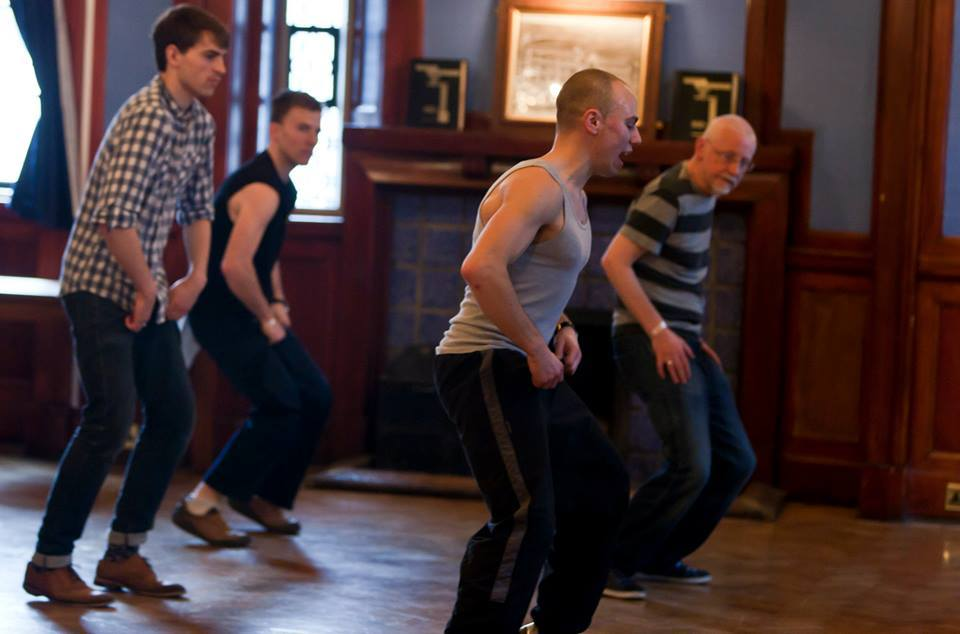
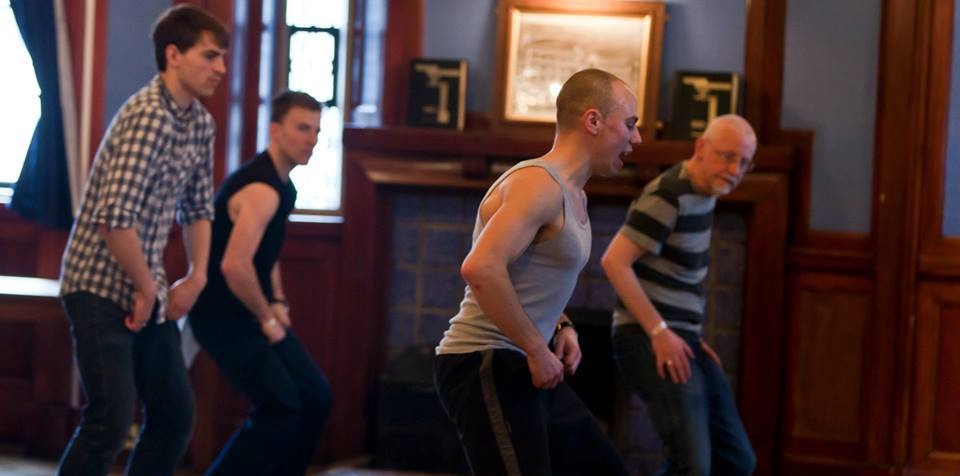
Style ribbon in Image section, cut the background picture

diff --git a/wp-content/themes/Parallax-One/style.css b/wp-content/themes/Parallax-One/style.css
@@ -1090,7 +1090,6 @@ img.why-us-img {
 -----------------------------------------*/
 
 section#call-to-action {
-
 	padding-bottom: 30px;
 }
 
@@ -1306,6 +1305,18 @@ a.many-things-link {
 		padding-top: 10px;
 		padding-bottom: 10px;
 	}
+}
+
+/*---------------------------------------
+   IMAGE SECTION
+-----------------------------------------*/
+
+section#image-section {
+	text-align: center;
+}
+
+#image-section h2.title-above {
+	padding-bottom: 20px;
 }
 
 /*---------------------------------------
@@ -2966,9 +2977,9 @@ a.control_next.fade-btn {
 }
 
 /*---------------------------------------
-   3.12 SECTION: CALL TO ACTION
+   3.12 SECTION: IMAGE - RIBBON
 -----------------------------------------*/
-.call-to-action {
+.image-section-ribbon {
 	background-position: 50% 50%;
 	background-repeat: no-repeat;
 	background-attachment: fixed;
@@ -2976,17 +2987,34 @@ a.control_next.fade-btn {
 	border-bottom: 1px solid #eaebec;
 }
 
-.call-to-action .section-overlay-layer {
-	padding-top: 100px;
-	padding-bottom: 100px;
-	background: rgba(0, 5, 8, 0.4);
+.image-section-ribbon .section-overlay-layer {
+	padding-top: 30px;
+	padding-bottom: 170px;
+	background: rgba(0, 5, 8, 0.3);
 }
 
-.call-to-action h2 {
+.image-section-ribbon a.image-section-button {
 	margin-top: 20px;
-	margin-bottom: 50px;
-	font-size: 2.4rem;
+	padding: 9px 36px;
+	font-size: 1.2em;
+	background-color: #3a98cb;
+	border: 1px #3a98cb solid;
+}
+
+.image-section-ribbon a.image-section-button:hover {
+	background-color: #1a78ab;
+	border: 1px #1a78ab solid;
+}
+
+.image-section-ribbon h2 {
+	margin-top: 20px;
+	margin-bottom: 10px;
+	font-size: 2.0rem;
 	line-height: 3.125rem;	
+}
+
+.image-section-ribbon .text-inside {
+	font-size: 1.1em;
 }
 
 .modal-content {
@@ -2998,7 +3026,7 @@ a.control_next.fade-btn {
 }
 
 .ribbon-wrap {
-	text-align: center;
+	text-align: left;
 }
 
 /*---------------------------------------

diff --git a/wp-content/themes/Parallax-One/sections/parallax_one_image_section.php b/wp-content/themes/Parallax-One/sections/parallax_one_image_section.php
@@ -18,38 +18,46 @@ if(!empty($image_section_title_above) ||
   !empty($image_section_button_link) ||
   !empty($ribbon_background) ||
   !empty($static_image)) {
-
-  if(!empty($ribbon_background)){
-    echo '<section class="call-to-action ribbon-wrap" id="ribbon" style="background-image:url('.$ribbon_background.');">';
-  } else {
-    echo '<section class="call-to-action ribbon-wrap" id="ribbon">';
+?>
+  <section id="image-section">
+<?php  
+  if (!empty($image_section_title_above)) {
+    echo '<h2 class="title-above">' . $image_section_title_above . '</h2>';
   }
 
+  if(!empty($ribbon_background)){
+    echo '<div class="image-section-ribbon ribbon-wrap" id="ribbon" style="background-image:url('.$ribbon_background.');">';
+  } else {
+    echo '<div class="image-section-ribbon ribbon-wrap" id="ribbon">';
+  }
 
   ?>
-  <div class="section-overlay-layer">
-    <div class="container">
-      <div class="row">
-        <div class="col-md-8 col-md-offset-2">
+    <div class="section-overlay-layer">
+      <div class="container">
+        <div class="row">
+          <div class="col-md-8 col-md-offset-1">
 
-          <?php
-          if( !empty($image_section_title_inside) ){
-            echo '<h2 class="white-text strong">'.esc_attr($image_section_title_inside).'</h2>';
-          } elseif ( isset( $wp_customize )   ) {
-            echo '<h2 class="white-text strong paralax_one_only_customizer"></h2>';
-          }
-
-          if( !empty($image_section_button_text) ){
-            if( empty($image_section_button_link) ){
-              echo '<button onclick="" class="btn btn-primary standard-button paralax_one_only_customizer" type="button" data-toggle="modal" data-target="#stamp-modal">'.$image_section_button_text.'</button>';
-            } else {
-              echo '<button onclick="window.location=\''.esc_url($image_section_button_link).'\'" class="btn btn-primary standard-button" type="button" data-toggle="modal" data-target="#stamp-modal">'.esc_attr($image_section_button_text).'</button>';
+            <?php
+            if(!empty($image_section_title_inside) ){
+              echo '<h2 class="white-text strong title-inside">'.esc_attr($image_section_title_inside).'</h2>';
             }
-          } elseif ( isset( $wp_customize )   ) {
-            echo '<button class="btn btn-primary standard-button paralax_one_only_customizer" type="button" data-toggle="modal" data-target="#stamp-modal"></button>';
-          }
-          ?>
 
+            if(!empty($image_section_text_inside) ){
+              echo '<p class="white-text text-inside">'.esc_attr($image_section_text_inside).'</p>';
+            }
+
+            if(!empty($image_section_button_text) ){
+              if(empty($image_section_button_link) ){
+                echo '<a onclick="" class="btn btn-primary paralax_one_only_customizer image-section-button" type="button" data-toggle="modal" data-target="#stamp-modal">'.$image_section_button_text.'</a>';
+              } else {
+                echo '<a onclick="window.location=\''.esc_url($image_section_button_link).'\'" class="btn btn-primary image-section-button" type="button" data-toggle="modal" data-target="#stamp-modal">'.esc_attr($image_section_button_text).'</a>';
+              }
+            } elseif ( isset( $wp_customize )   ) {
+              echo '<a class="btn btn-primary paralax_one_only_customizer image-section-button" type="button" data-toggle="modal" data-target="#stamp-modal"></a>';
+            }
+            ?>
+
+          </div>
         </div>
       </div>
     </div>
